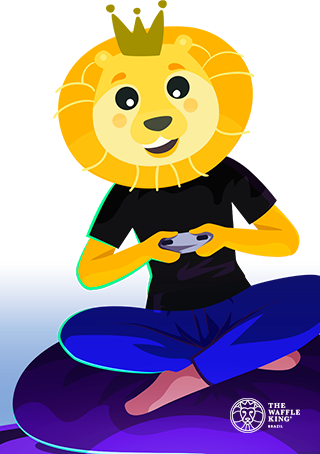
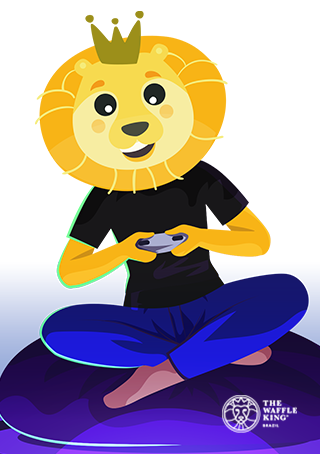
up donw

diff --git a/style.css b/style.css
@@ -87,17 +87,17 @@
     }
 
     #img-04 {
-    top: 630px;
-    height: 430px;
+    top: 610px;
+    height: 450px;
     z-index: 1;
     }
 
      #img-element-02{
-        animation: subirDescer-1 20s ease-in-out infinite;
+        animation: subirDescer-1 18s ease-in-out infinite;
      }
 
     #img-element-01 {
-        animation: subirDescer-2 20s ease-in-out infinite;
+        animation: subirDescer-2 18s ease-in-out infinite;
     }
     
     @keyframes subirDescer-1 {
